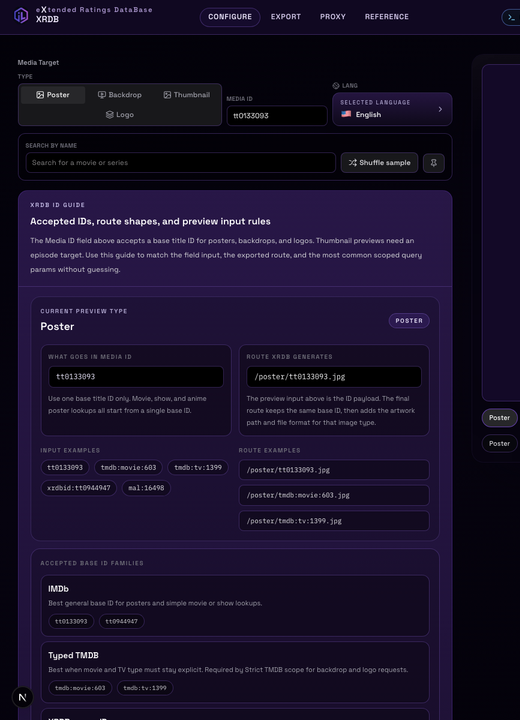
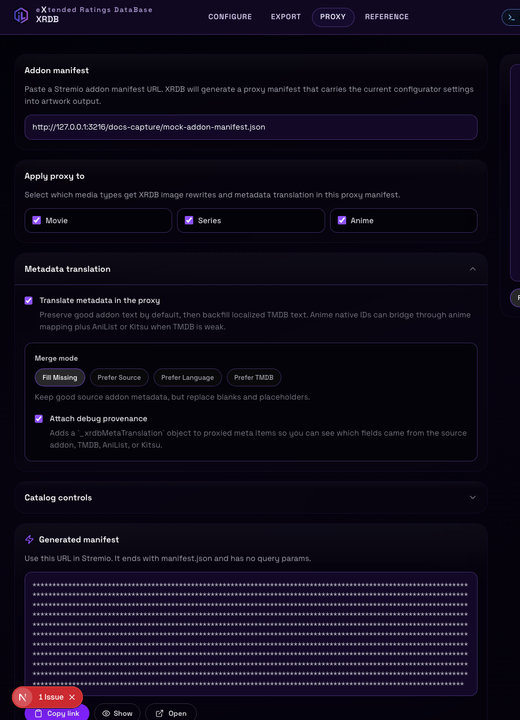
fix(docs-capture): align refresh outputs with routed workspace ui
Route capture URLs to real workspace paths and expose docs-capture readiness on addon.

Auto-open metadata translation panel during docs capture and retune screenshot crop regions for configurator and proxy assets.

diff --git a/components/proxy-view.tsx b/components/proxy-view.tsx
@@ -27,7 +27,7 @@ import type { ProxyMediaType } from '@/lib/uiConfig';
 type PreviewType = 'poster' | 'backdrop' | 'thumbnail' | 'logo';
 
 export function ProxyView() {
-  const { workspaceColumnsProps } = useConfiguratorContext();
+  const { workspaceColumnsProps, isDocsCapture } = useConfiguratorContext();
   const { supportPanelsProps, centerStageProps } = workspaceColumnsProps;
 
   const {
@@ -66,7 +66,7 @@ export function ProxyView() {
     activeTypeLabel,
   } = centerStageProps;
 
-  const [translationOpen, setTranslationOpen] = useState(false);
+  const [translationOpen, setTranslationOpen] = useState(isDocsCapture);
   const [catalogOpen, setCatalogOpen] = useState(false);
 
   const [catalogLoadError, setCatalogLoadError] = useState('');

diff --git a/app/(workspace)/addon/page.tsx b/app/(workspace)/addon/page.tsx
@@ -1,8 +1,16 @@
+'use client';
+
 import { ProxyView } from '@/components/proxy-view';
+import { useConfiguratorContext } from '@/lib/configuratorProvider';
 
 export default function AddonPage() {
+  const { docsCaptureReady } = useConfiguratorContext();
+
   return (
-    <div className="xrdb-page min-h-screen bg-transparent text-zinc-300">
+    <div
+      className="xrdb-page min-h-screen bg-transparent text-zinc-300"
+      data-docs-capture-ready={docsCaptureReady ? 'true' : 'false'}
+    >
       <ProxyView />
     </div>
   );

diff --git a/lib/useConfiguratorWorkspaceRuntime.ts b/lib/useConfiguratorWorkspaceRuntime.ts
@@ -1852,6 +1852,7 @@ export function useConfiguratorWorkspaceRuntime() {
     handleContinueExperienceMode,
     heroProps,
     inputsPanelProps,
+    isDocsCapture: Boolean(docsCaptureConfig),
     outroProps,
     pageRef: pageChrome.pageRef,
     setExperienceModeDraft,
